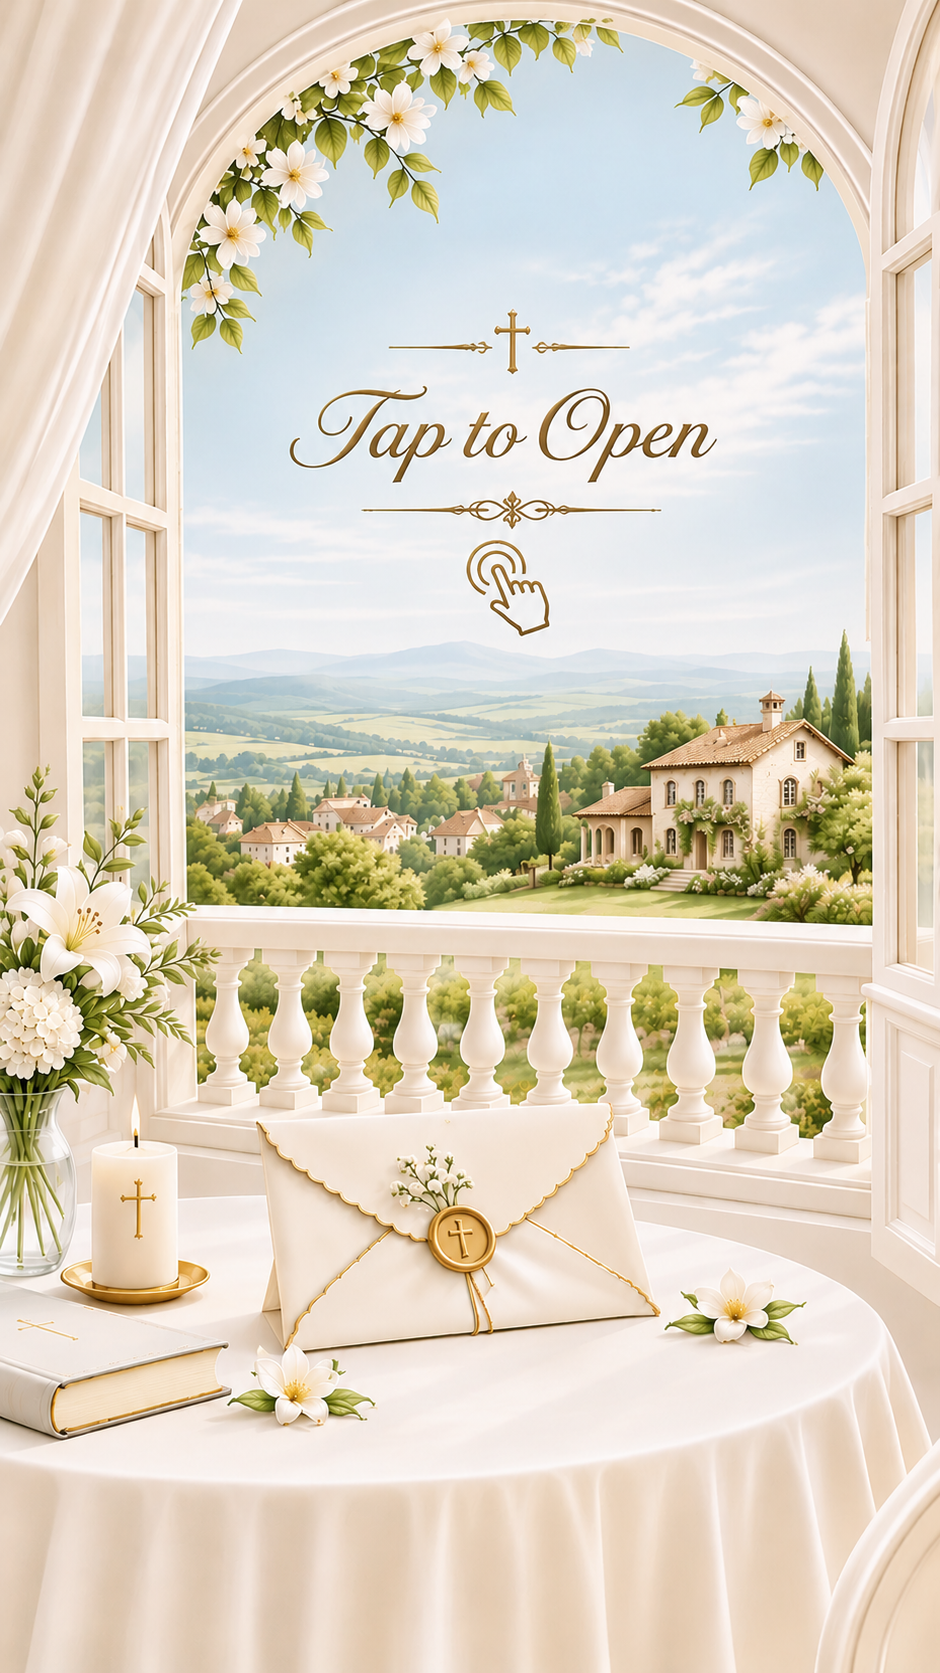
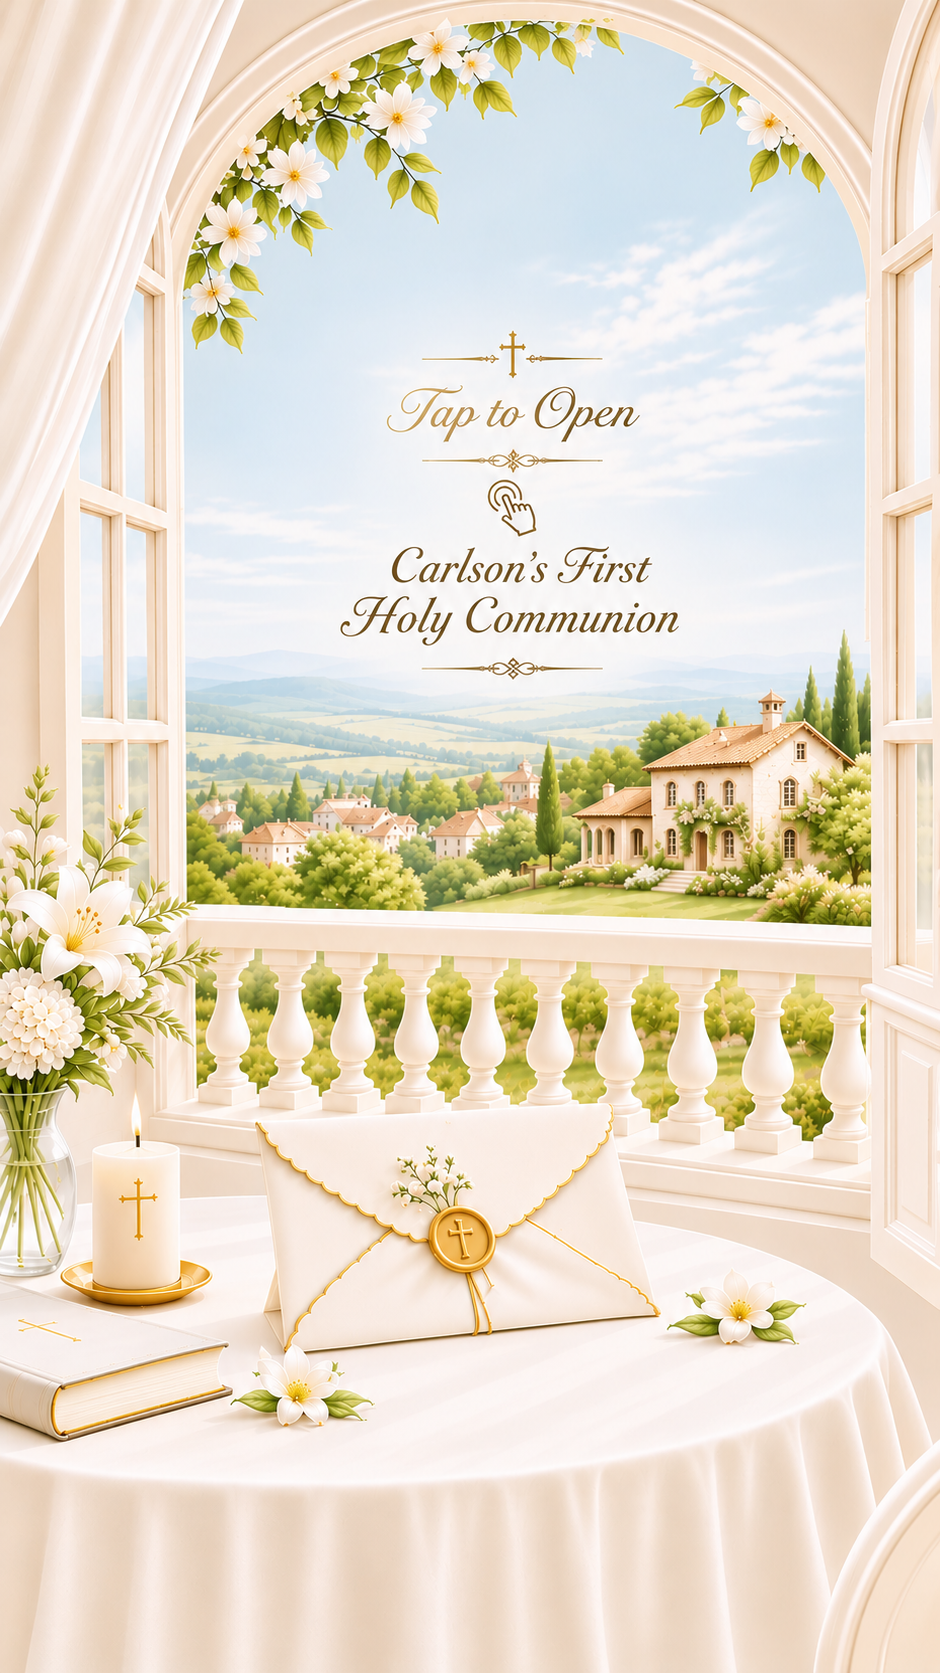
update

diff --git a/src/app/page.js b/src/app/page.js
@@ -149,7 +149,7 @@ export default function Home() {
         <section className="relative z-10 w-full flex justify-center py-10 px-4">
           <div className="relative w-full max-w-[500px] aspect-[493/640] overflow-hidden">
             <div className="absolute top-[16%] left-[14%] z-10">
-              <span className="cormorant-garamond md:text-3xl  text-2xl text-[#77663d]">
+              <span className="cormorant-garamond md:text-3xl  text-3xl text-[#77663d]">
                 I AM
               </span>
             </div>
@@ -215,7 +215,7 @@ export default function Home() {
           </div>
 
           <img
-            src="/assets/element3.webp"
+            src="/assets/element3.png"
             alt="element2"
             className="md:w-3/7 w-4/5 md:mt-40 mt-30"
           />
